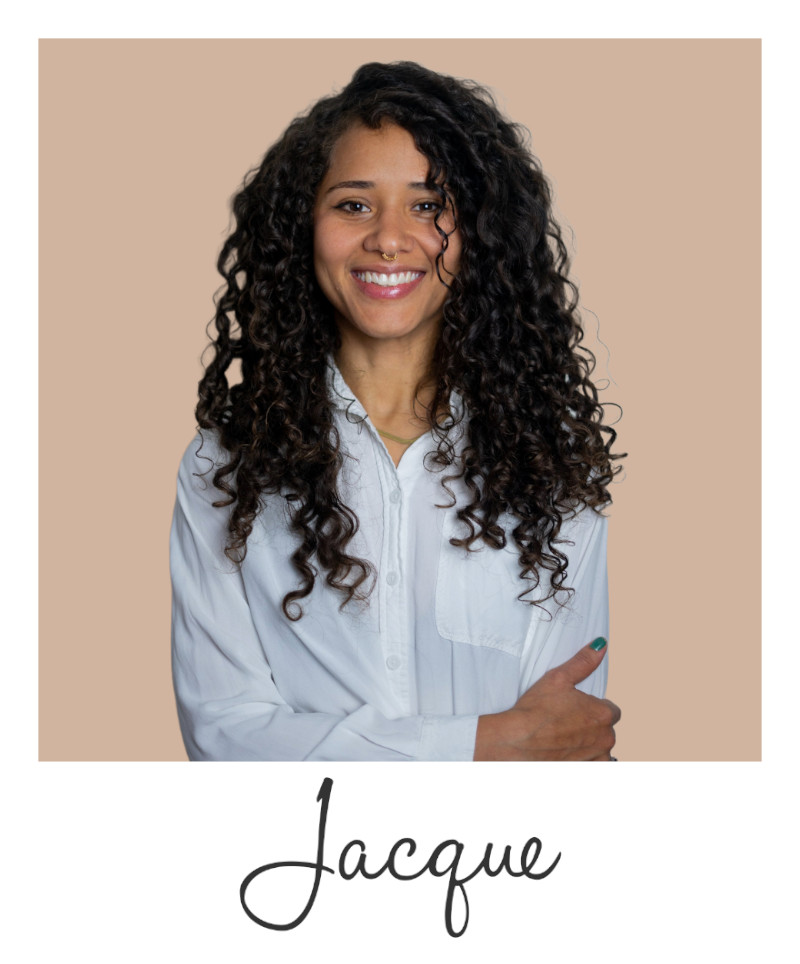
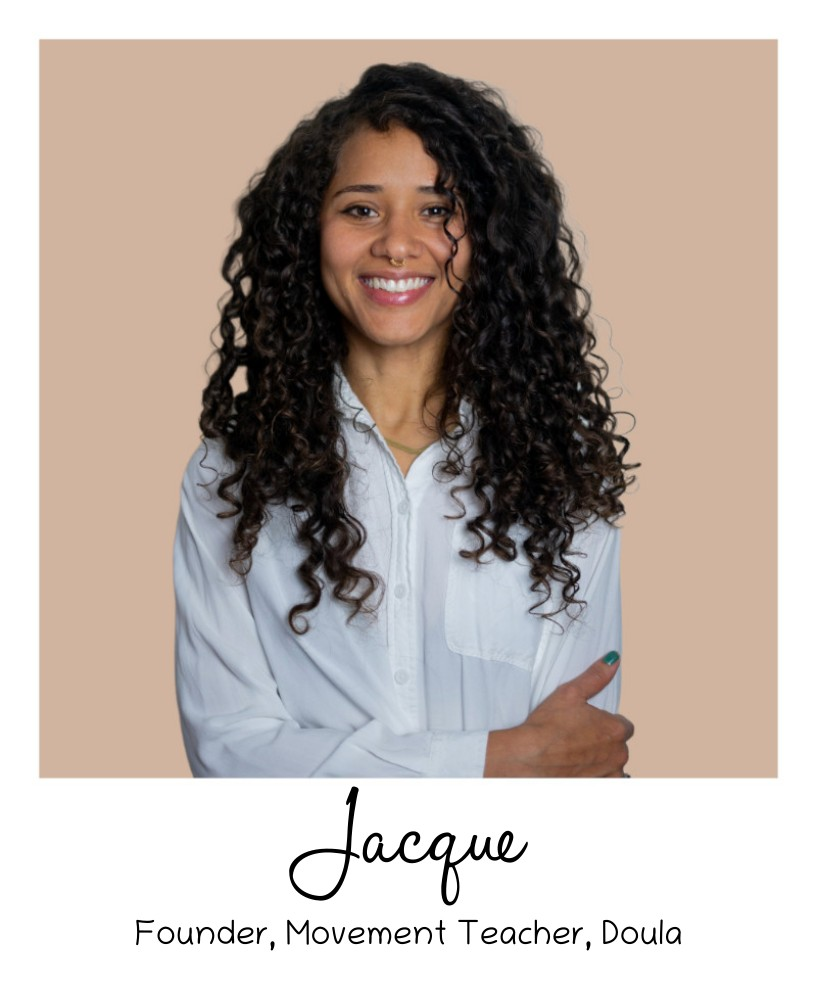
feat: changing services info and bio pic

Changed region(s): [[0.1562, 0.778, 0.8438, 0.9959]]

diff --git a/index.html b/index.html
@@ -156,39 +156,12 @@
                     <div class="accordion__box">
                         <div class="accordion__box__item">
                             <div class="accordion__box__item__question" data-accordion-question>
-                                Emotional support
+                                Postpartum Care
                             </div>
                             <div class="accordion__box__item__answer">
-                                <ul>
-                                    <li>
-                                        Non-judgemental emotional support;
-                                    </li>
-                                    <li>
-                                        Discussing how to increase oxytocin and identifying what brings you ‘peace and
-                                        joy’;
-                                    </li>
-                                    <li>
-                                        Gentle and comforting massage;
-                                    </li>
-                                    <li>
-                                        Treating you to a foot soak;
-                                    </li>
-                                    <li>
-                                        Goal and intention setting;
-                                    </li>
-                                    <li>
-                                        Helping to identify and establish boundaries;
-                                    </li>
-                                    <li>
-                                        Helping communications with your partner and family members;
-                                    </li>
-                                    <li>
-                                        Identifying potential issues and working with you to problem solve;
-                                    </li>
-                                    <li>
-                                        Attending appointments with you if you’d like a bit of extra support.
-                                    </li>
-                                </ul>
+                                <p>
+                                    Content...
+                                </p>
                                 <a href="#contact">
                                     <p>Contact me to learn more.</p>
                                 </a>
@@ -196,107 +169,67 @@
                         </div>
                         <div class="accordion__box__item">
                             <div class="accordion__box__item__question" data-accordion-question>
-                                Nourishment
+                                Prenatal & Postnatal Yoga
                             </div>
                             <div class="accordion__box__item__answer">
-                                <ul>
-                                    <li>
-                                        Lessons on how to move your body safely after the delivery;
-                                    </li>
-                                    <li>
-                                        Preparing nourishing and restorative postpartum meals and snacks;
-                                    </li>
-                                    <li>
-                                        Self-care practices that will help you to heal faster;
-                                    </li>
-                                    <li>
-                                        Herbal teas to assist with postpartum healing;
-                                    </li>
-                                    <li>
-                                        Listening to your birth experience with an understanding and kind ear;
-                                    </li>
-                                    <li>
-                                        Help you to connect with your inner child.
-                                    </li>
-                                </ul>
+                                <h3>
+                                    Prenatal Yoga
+                                </h3>
+                                <p>
+                                    Designed for new moms, this class offers a restorative space to release and restore,
+                                    all while strengthening and preparing your body for the journey ahead. We infuse
+                                    elements of dance into our practice to make it not just beneficial but also exciting
+                                    and fun! Our classes are tailored to the specific needs of expectant and new
+                                    mothers, emphasizing holistic health through somatic movements, meditation, and
+                                    mindfulness. Join us and experience the joy of prenatal yoga!
+                                </p>
                                 <a href="#contact">
-                                    <p>Contact me to learn more.</p>
+                                    <p>Schedule a Private Session</p>
+                                </a>
+                                <h3>
+                                    Postnatal Yoga
+                                </h3>
+                                <p>
+                                    The first half focuses on core and pelvic muscles with a gentle vinyasa, perfect for
+                                    beginners and postpartum moms. The second half includes restorative poses for deep
+                                    relaxation, with variations to suit all levels. Whether you're new to yoga or
+                                    experienced, this class is designed to support your recovery from childbirth, build
+                                    strength, and reduce stress.
+                                </p>
+                                <a href="#contact">
+                                    <p>Schedule a Private Session</p>
                                 </a>
                             </div>
                         </div>
                         <div class="accordion__box__item">
                             <div class="accordion__box__item__question" data-accordion-question>
-                                Postpartum care
+                                Mother’s Blessing Ceremony
                             </div>
                             <div class="accordion__box__item__answer">
-                                <ul>
-                                    <li>
-                                        Lessons on how to move your body safely after the delivery;
-                                    </li>
-                                    <li>
-                                        Bonding techniques to help you to connect with your baby;
-                                    </li>
-                                    <li>
-                                        Safe yoga exercises to keep your body healthy and your mind blissed;
-                                    </li>
-                                    <li>
-                                        Preparing you a herbal Epsom salt bath soak to assist with postpartum healing;
-                                    </li>
-                                    <li>
-                                        Providing a list of local resources;
-                                    </li>
-                                    <li>
-                                        Providing referrals where required.
-                                    </li>
-                                </ul>
+                                <p>
+                                    A mother's blessing is a heartfelt gathering inspired by the ancient Navajo ceremony
+                                    known as a Blessing Way. This special event is a beautiful way to prepare an
+                                    expectant mother for her upcoming birth journey, surrounding her with love, support,
+                                    and encouragement.
+                                </p>
+                                <p>
+                                    In many cultures, birth is viewed as a powerful rite of passage for women, and a
+                                    mother's blessing is designed to help a woman feel mentally, physically, and
+                                    emotionally ready for childbirth. While honoring the traditions of the Navajo
+                                    blessing way, a Mother's Blessing offers a modern twist, providing moms-to-be with a
+                                    similar sense of support and honor during this sacred time.
+                                </p>
                                 <a href="#contact">
-                                    <p>Contact me to learn more.</p>
+                                    <p>I’m Interested</p>
                                 </a>
                             </div>
                         </div>
                         <div class="accordion__box__item">
                             <div class="accordion__box__item__question" data-accordion-question>
-                                Daily tasks
+                                Photography
                             </div>
                             <div class="accordion__box__item__answer">
-                                <ul>
-                                    <li>
-                                        Light housekeeping and laundry;
-                                    </li>
-                                    <li>
-                                        Errand running including grocery shopping;
-                                    </li>
-                                    <li>
-                                        Monitoring visiting hours;
-                                    </li>
-                                    <li>
-                                        Planning on going back to work.
-                                    </li>
-                                </ul>
-                                <a href="#contact">
-                                    <p>Contact me to learn more.</p>
-                                </a>
-                            </div>
-                        </div>
-                        <div class="accordion__box__item">
-                            <div class="accordion__box__item__question" data-accordion-question>
-                                Child care
-                            </div>
-                            <div class="accordion__box__item__answer">
-                                <ul>
-                                    <li>
-                                        Tips on how to create the environment so your baby can sleep better;
-                                    </li>
-                                    <li>
-                                        Breastfeed support;
-                                    </li>
-                                    <li>
-                                        Taking care of baby so that you can rest or shower;
-                                    </li>
-                                    <li>
-                                        Newborn care assistance so parents can bond with older children.
-                                    </li>
-                                </ul>
+                                Content...
                                 <a href="#contact">
                                     <p>Contact me to learn more.</p>
                                 </a>
@@ -440,7 +373,7 @@
                 <div class="about__bio wrapper">
                     <img class="about__bio__jacque reveal" src="./dist/images/jacque.jpg" alt="Portrait of Jaque Souza">
                     <div data-aos="fade-up" data-aos-delay="70" data-aos-duration="1400">
-                        <h2 data-aos="fade-up" data-aos-duration="1000" class="title">Meet me</h2>
+                        <h2 data-aos="fade-up" data-aos-duration="1000" class="title">Meet us</h2>
                         <div class="about__bio__tabs">
                             <button id="tab-expect" class="about__bio__tabs__tab is-selected">What to expect</button>
                             <button id="tab-bio" class="about__bio__tabs__tab">Bio</button>
@@ -452,15 +385,14 @@
                                 expect to be respected, supported and educated through your postpartum journey.
                             </p>
                             <p class="txt-bio fade-in">
-                                Jacque is an Afro-Indigenous woman who was born and raised in Brazil. She initially
-                                pursued a degree in Social Sciences but later developed a keen interest in body movement
-                                and healing. In 2015, in the city of Medellin, Colombia, she commenced teaching prenatal
-                                yoga classes. Subsequently, she delved into learning about natural methods to maintain
-                                bodily health, drawing from traditional knowledge that honors her ancestral lineage.
-                                Since 2017, she has been actively involved in serving the DMV community. Jacque also
-                                possesses experience in caring for infants and babies, having worked in a Montessori
-                                school and as a nanny. She obtained her postpartum doula certificate through CAPPA and
-                                is enthusiastic about sharing her expertise to assist your family.
+                                Jacque is a vibrant Afro-Indigenous woman hailing from Brazil! Originally studying
+                                Social Sciences, her path took a twist when she discovered a passion for body movement
+                                and healing. Her journey led her to Medellin, Colombia, where in 2015, she began sharing
+                                the gift of prenatal yoga. Fascinated by natural health methods, Jacque immersed herself
+                                in ancestral wisdom, honoring her lineage.
+                                As the founder of Doula Mami Moon, Jacque is deeply committed to serving the DMV
+                                community. Her unique blend of traditional knowledge and modern practices brings a
+                                holistic approach to wellness.
                             </p>
                         </div>
                         <a href="#contact">
